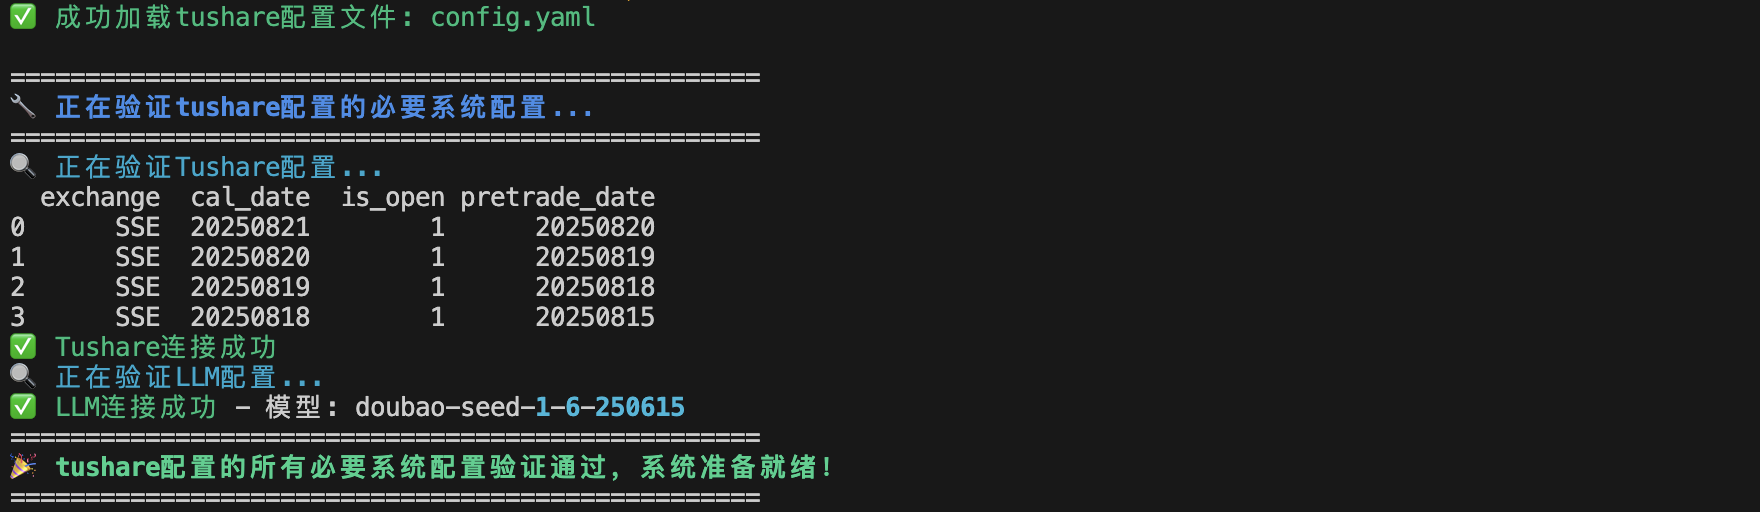
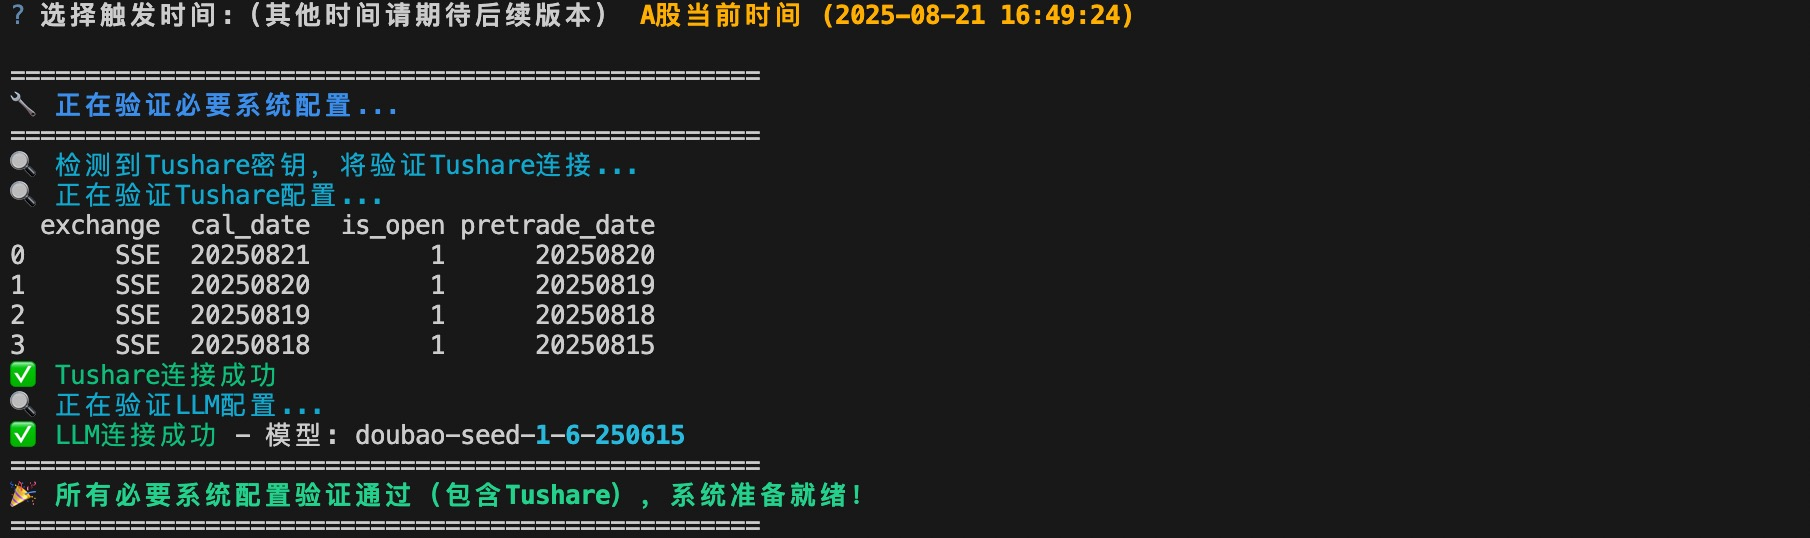
update readme

Changed region(s): [[0.0, 0.125, 0.5, 1.0], [0.0, 0.0, 0.625, 0.0625]]

diff --git a/README_en.md b/README_en.md
@@ -63,7 +63,7 @@ Edit the `config.yaml` file and enter your API keys. The table below lists all r
 
 | Key                      | Description                                | Required |
 | :----------------------- | :----------------------------------------- | :------- |
-| `TUSHARE_KEY`            | Tushare data interface key                 | **Yes** |
+| `TUSHARE_KEY`            | Tushare data interface key                 | No       |
 | `BOCHA_KEY`              | Bocha search engine key                    | No       |
 | `SERP_KEY`               | SerpAPI search engine key                  | No       |
 | `LLM_API_KEY`            | LLM API key for general tasks              | **Yes** |
@@ -73,7 +73,7 @@ Edit the `config.yaml` file and enter your API keys. The table below lists all r
 | `VLM_API_KEY`            | VLM API key for visual analysis            | No       |
 | `VLM_BASE_URL`           | VLM API base URL for visual analysis       | No       |
 
-> Note：LLM API and VLM API require you to apply for them yourself. Specifically, you need to fill in the URL, API Key, and model name based on the platform and model you are using. If you do not have a Tushare API key, it is currently also supported to configure the LLM API in `contest_trade/config/config.akshare.yaml`.
+> Note: You need to apply for the LLM API and VLM API by yourself. Fill in the URL, API Key, and model name according to the platform and model you use. The current configuration file supports the AKShare data interface by default. You can also configure the Tushare interface and related settings for better performance.
 
 ## Preference
 
@@ -112,11 +112,6 @@ python -m cli.main run
 After the program starts, you'll enter the interactive terminal interface and can select the time as prompted.
 <p align="center">
   <img src="assets/contest_trade_cli_start.jpg" style="width: 100%; height: auto;">
-</p>
-
-After selecting the time, you need to further choose the profile to be used.
-<p align="center">
-  <img src="assets/contest_trade_cli_start_config.jpg" style="width: 100%; height: auto;">
 </p>
 
 After the verification is complete, you will see the following display and enter the running interface.

diff --git a/README.md b/README.md
@@ -65,7 +65,7 @@ pip install -r requirements.txt
 
 | 配置项 (Key) | 描述 (Description) | 必需 (Required) |
 | :--- | :--- | :---: |
-| `TUSHARE_KEY` | Tushare 数据接口密钥 | ✅ |
+| `TUSHARE_KEY` | Tushare 数据接口密钥 | ❌ |
 | `BOCHA_KEY` | Bocha 搜索引擎密钥 | ❌ |
 | `SERP_KEY` | SerpAPI 搜索引擎密钥 | ❌ |
 | `LLM` | 用于通用任务的LLM API | ✅ |
@@ -74,7 +74,7 @@ pip install -r requirements.txt
 
 </div>
 
-> 注意：LLM API 和 VLM API 需要您自行申请，具体根据您使用的平台和模型填写URL、API Key以及模型名称。若您没有Tushare的API密钥，目前也支持在`contest_trade/config/config.akshare.yaml`中配置LLM API。
+> 注意：LLM API 和 VLM API 需要您自行申请，具体根据您使用的平台和模型填写URL、API Key以及模型名称。当前配置文件默认支持AKShare数据接口，您也可以自行配置Tushare接口及配套配置来获得更好的表现。
 
 ## Preference (选股偏好)
 
@@ -115,11 +115,6 @@ python -m cli.main run
 程序启动后，您将进入终端交互式界面，可以选择具体分析时间。
 <p align="center">
   <img src="assets/contest_trade_cli_start.jpg" style="width: 100%; height: auto;">
-</p>
-
-选择时间后，您需要进一步选择所采用的配置文件。
-<p align="center">
-  <img src="assets/contest_trade_cli_start_config.jpg" style="width: 100%; height: auto;">
 </p>
 
 验证完成后，您将会看到以下显示并进入运行界面。
